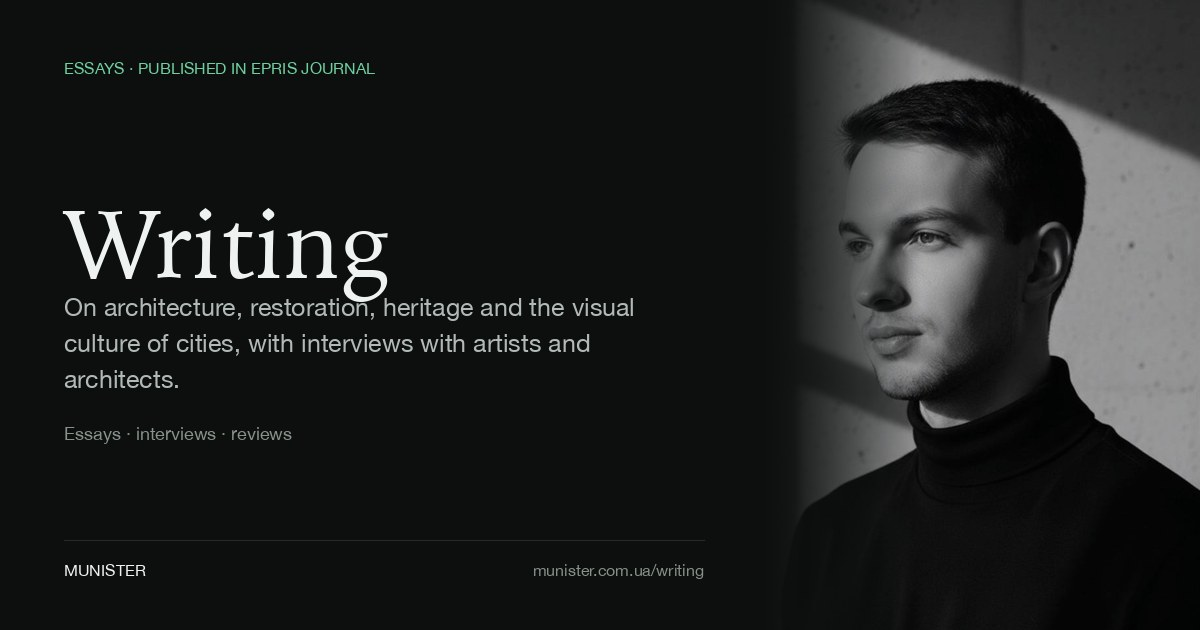
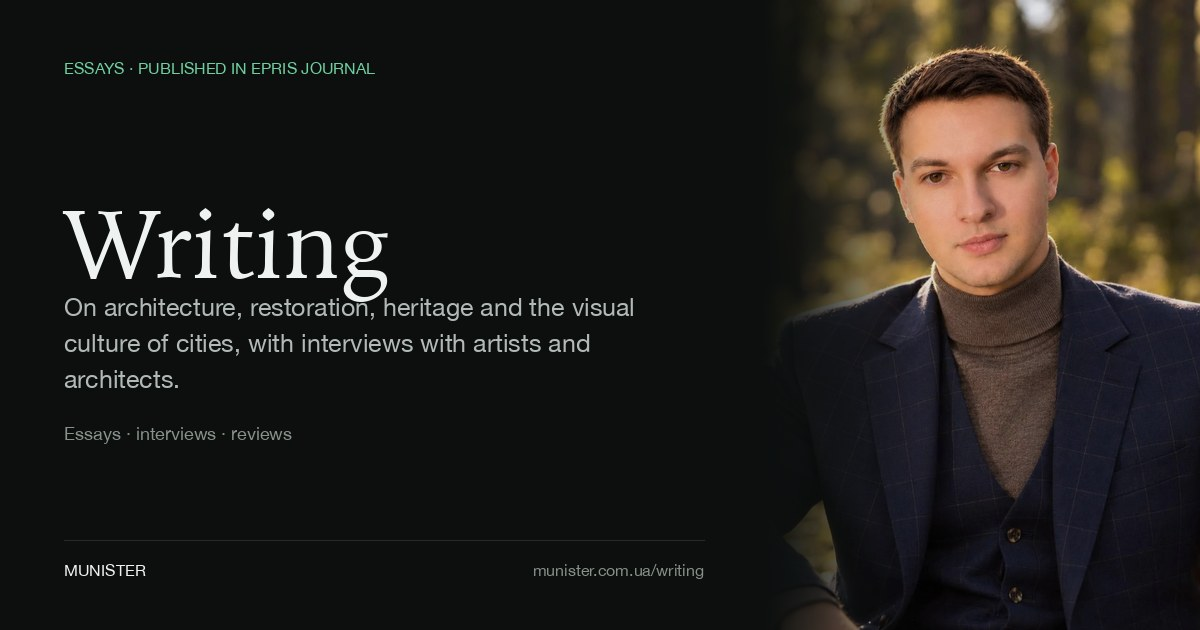
New 2026 portrait on the site and in the social cards: regenerated og images (en, uk, research, writing, course, cv), og-ua now in the dark theme, og:image/twitter:image added to course/databases and modeler, cache-bust v=4

Changed region(s): [[0.6475, 0.0, 1.0, 1.0]]

diff --git a/uk/index.html b/uk/index.html
@@ -29,7 +29,7 @@
 <meta property="og:site_name" content="Вʼячеслав Муністер">
 <meta property="og:title" content="Вʼячеслав Муністер · Прикладні системи, дослідження й цифрова практика">
 <meta property="og:description" content="Дослідження, продуктова архітектура й розробка для видавничої справи, освіти, роздрібних операцій та культурної спадщини.">
-<meta property="og:image" content="https://munister.com.ua/images/og-ua.jpg?v=3">
+<meta property="og:image" content="https://munister.com.ua/images/og-ua.jpg?v=4">
 <meta property="og:image:width" content="1200">
 <meta property="og:image:height" content="630">
 <meta property="og:image:type" content="image/jpeg">
@@ -39,7 +39,7 @@
 <meta name="twitter:card" content="summary_large_image">
 <meta name="twitter:title" content="Вʼячеслав Муністер · Прикладні системи, дослідження й цифрова практика">
 <meta name="twitter:description" content="Дослідження, продуктова архітектура й розробка для видавничої справи, освіти, роздрібних операцій та культурної спадщини.">
-<meta name="twitter:image" content="https://munister.com.ua/images/og-ua.jpg?v=3">
+<meta name="twitter:image" content="https://munister.com.ua/images/og-ua.jpg?v=4">
 <meta name="twitter:image:alt" content="Вʼячеслав Муністер, незалежна практика">
 
 

diff --git a/uk/cv.html b/uk/cv.html
@@ -27,7 +27,7 @@
 <meta property="og:site_name" content="Вʼячеслав Муністер">
 <meta property="og:title" content="Вʼячеслав Муністер · Резюме">
 <meta property="og:description" content="Автор, редактор і дослідник спадщини: великі журналістські тексти, музейне кураторство, редакційні системи та запуск продуктів.">
-<meta property="og:image" content="https://munister.com.ua/images/og-cv.jpg?v=3">
+<meta property="og:image" content="https://munister.com.ua/images/og-cv.jpg?v=4">
 <meta property="og:image:width" content="1200">
 <meta property="og:image:height" content="630">
 <meta property="og:image:alt" content="Вʼячеслав Муністер">
@@ -35,7 +35,7 @@
 <meta name="twitter:card" content="summary_large_image">
 <meta name="twitter:title" content="Вʼячеслав Муністер · Резюме">
 <meta name="twitter:description" content="Автор, редактор і дослідник спадщини: великі журналістські тексти, музейне кураторство, редакційні системи та запуск продуктів.">
-<meta name="twitter:image" content="https://munister.com.ua/images/og-cv.jpg?v=3">
+<meta name="twitter:image" content="https://munister.com.ua/images/og-cv.jpg?v=4">
 <meta name="twitter:image:alt" content="Вʼячеслав Муністер">
 
 <noscript></noscript>

diff --git a/course/databases/index.html b/course/databases/index.html
@@ -23,9 +23,16 @@
 <meta property="og:title" content="Бази та сховища даних · Програма курсу">
 <meta property="og:description" content="9 розділів, 19 лекцій, 14 лабораторних робіт: детальна українськомовна програма курсу з баз даних на основі Oracle Academy Database Foundations.">
 <meta property="og:locale" content="uk_UA">
+<meta property="og:image" content="https://munister.com.ua/images/og-course.jpg?v=4">
+<meta property="og:image:width" content="1200">
+<meta property="og:image:height" content="630">
+<meta property="og:image:type" content="image/jpeg">
+<meta property="og:image:alt" content="Бази та сховища даних: програма курсу">
 <meta name="twitter:card" content="summary_large_image">
 <meta name="twitter:title" content="Бази та сховища даних · Програма курсу">
 <meta name="twitter:description" content="9 розділів, 19 лекцій, 14 лабораторних робіт на базі Oracle Academy Database Foundations.">
+<meta name="twitter:image" content="https://munister.com.ua/images/og-course.jpg?v=4">
+<meta name="twitter:image:alt" content="Бази та сховища даних: програма курсу">
 
 <script type="application/ld+json">
 {

diff --git a/course/databases/reference/index.html b/course/databases/reference/index.html
@@ -23,9 +23,16 @@
 <meta property="og:title" content="Довідник курсу: бази даних">
 <meta property="og:description" content="Моделювання, ERD, нормалізація, SQL DDL/DML/TCL, SELECT, JOIN, агрегування, а також розширений довідник з Oracle SQL — функції, підзапити, послідовності, PL/SQL.">
 <meta property="og:locale" content="uk_UA">
+<meta property="og:image" content="https://munister.com.ua/images/og-course.jpg?v=4">
+<meta property="og:image:width" content="1200">
+<meta property="og:image:height" content="630">
+<meta property="og:image:type" content="image/jpeg">
+<meta property="og:image:alt" content="Довідник курсу: бази даних">
 <meta name="twitter:card" content="summary_large_image">
 <meta name="twitter:title" content="Довідник курсу: бази даних">
 <meta name="twitter:description" content="Весь курс «Бази та сховища даних» на одному аркуші: моделювання, ERD, нормалізація, SQL.">
+<meta name="twitter:image" content="https://munister.com.ua/images/og-course.jpg?v=4">
+<meta name="twitter:image:alt" content="Довідник курсу: бази даних">
 
 <script type="application/ld+json">
 {

diff --git a/fr/index.html b/fr/index.html
@@ -29,7 +29,7 @@
 <meta property="og:site_name" content="Viacheslav Munister">
 <meta property="og:title" content="Viacheslav Munister · Recherche en systèmes appliqués et pratique numérique">
 <meta property="og:description" content="Recherche, architecture produit et développement logiciel pour l’édition, l’éducation, le commerce et le patrimoine culturel.">
-<meta property="og:image" content="https://munister.com.ua/images/og-en.jpg?v=3">
+<meta property="og:image" content="https://munister.com.ua/images/og-en.jpg?v=4">
 <meta property="og:image:width" content="1200">
 <meta property="og:image:height" content="630">
 <meta property="og:image:type" content="image/jpeg">
@@ -38,7 +38,7 @@
 <meta name="twitter:card" content="summary_large_image">
 <meta name="twitter:title" content="Viacheslav Munister · Recherche en systèmes appliqués et pratique numérique">
 <meta name="twitter:description" content="Recherche, architecture produit et développement logiciel pour l’édition, l’éducation, le commerce et le patrimoine culturel.">
-<meta name="twitter:image" content="https://munister.com.ua/images/og-en.jpg?v=3">
+<meta name="twitter:image" content="https://munister.com.ua/images/og-en.jpg?v=4">
 <meta name="twitter:image:alt" content="Viacheslav Munister, pratique indépendante">
 
 

diff --git a/it/index.html b/it/index.html
@@ -29,7 +29,7 @@
 <meta property="og:site_name" content="Viacheslav Munister">
 <meta property="og:title" content="Viacheslav Munister · Ricerca sui sistemi applicati e pratica digitale">
 <meta property="og:description" content="Ricerca, architettura di prodotto e sviluppo software per editoria, formazione, retail e patrimonio culturale.">
-<meta property="og:image" content="https://munister.com.ua/images/og-en.jpg?v=3">
+<meta property="og:image" content="https://munister.com.ua/images/og-en.jpg?v=4">
 <meta property="og:image:width" content="1200">
 <meta property="og:image:height" content="630">
 <meta property="og:image:type" content="image/jpeg">
@@ -38,7 +38,7 @@
 <meta name="twitter:card" content="summary_large_image">
 <meta name="twitter:title" content="Viacheslav Munister · Ricerca sui sistemi applicati e pratica digitale">
 <meta name="twitter:description" content="Ricerca, architettura di prodotto e sviluppo software per editoria, formazione, retail e patrimonio culturale.">
-<meta name="twitter:image" content="https://munister.com.ua/images/og-en.jpg?v=3">
+<meta name="twitter:image" content="https://munister.com.ua/images/og-en.jpg?v=4">
 <meta name="twitter:image:alt" content="Viacheslav Munister, pratica indipendente">
 
 

diff --git a/uk/research/index.html b/uk/research/index.html
@@ -26,13 +26,13 @@
 <meta property="og:site_name" content="Вʼячеслав Муністер">
 <meta property="og:title" content="Дослідження · Вʼячеслав Муністер">
 <meta property="og:description" content="29 рецензованих статей 2021–2026 років: промислова автоматизація, периферійні й туманні обчислення, машинне навчання у вимірювальних системах.">
-<meta property="og:image" content="https://munister.com.ua/images/og-research.jpg?v=3">
+<meta property="og:image" content="https://munister.com.ua/images/og-research.jpg?v=4">
 <meta property="og:image:width" content="1200">
 <meta property="og:image:height" content="630">
 <meta property="og:image:alt" content="Дослідження Вʼячеслава Муністера">
 <meta property="og:locale" content="uk_UA">
 <meta name="twitter:card" content="summary_large_image">
-<meta name="twitter:image" content="https://munister.com.ua/images/og-research.jpg?v=3">
+<meta name="twitter:image" content="https://munister.com.ua/images/og-research.jpg?v=4">
 
 <link rel="stylesheet" href="/munister.css?v=55">
 <link rel="stylesheet" href="/theme.css?v=4">

diff --git a/de/index.html b/de/index.html
@@ -29,7 +29,7 @@
 <meta property="og:site_name" content="Viacheslav Munister">
 <meta property="og:title" content="Viacheslav Munister · Angewandte Systemforschung und digitale Praxis">
 <meta property="og:description" content="Forschung, Produktarchitektur und Softwareentwicklung für Verlagswesen, Bildung, Einzelhandel und Kulturerbe.">
-<meta property="og:image" content="https://munister.com.ua/images/og-en.jpg?v=3">
+<meta property="og:image" content="https://munister.com.ua/images/og-en.jpg?v=4">
 <meta property="og:image:width" content="1200">
 <meta property="og:image:height" content="630">
 <meta property="og:image:type" content="image/jpeg">
@@ -38,7 +38,7 @@
 <meta name="twitter:card" content="summary_large_image">
 <meta name="twitter:title" content="Viacheslav Munister · Angewandte Systemforschung und digitale Praxis">
 <meta name="twitter:description" content="Forschung, Produktarchitektur und Softwareentwicklung für Verlagswesen, Bildung, Einzelhandel und Kulturerbe.">
-<meta name="twitter:image" content="https://munister.com.ua/images/og-en.jpg?v=3">
+<meta name="twitter:image" content="https://munister.com.ua/images/og-en.jpg?v=4">
 <meta name="twitter:image:alt" content="Viacheslav Munister, unabhängige Praxis">
 
 

diff --git a/index.html b/index.html
@@ -29,7 +29,7 @@
 <meta property="og:site_name" content="Viacheslav Munister">
 <meta property="og:title" content="Viacheslav Munister · Applied systems research and digital practice">
 <meta property="og:description" content="Research, product architecture and software delivery for publishing, education, retail and cultural heritage.">
-<meta property="og:image" content="https://munister.com.ua/images/og-en.jpg?v=3">
+<meta property="og:image" content="https://munister.com.ua/images/og-en.jpg?v=4">
 <meta property="og:image:width" content="1200">
 <meta property="og:image:height" content="630">
 <meta property="og:image:type" content="image/jpeg">
@@ -38,7 +38,7 @@
 <meta name="twitter:card" content="summary_large_image">
 <meta name="twitter:title" content="Viacheslav Munister · Applied systems research and digital practice">
 <meta name="twitter:description" content="Research, product architecture and software delivery for publishing, education, retail and cultural heritage.">
-<meta name="twitter:image" content="https://munister.com.ua/images/og-en.jpg?v=3">
+<meta name="twitter:image" content="https://munister.com.ua/images/og-en.jpg?v=4">
 <meta name="twitter:image:alt" content="Viacheslav Munister, independent practice">
 
 

diff --git a/fr/cv.html b/fr/cv.html
@@ -27,7 +27,7 @@
 <meta property="og:site_name" content="Viacheslav Munister">
 <meta property="og:title" content="Viacheslav Munister · CV">
 <meta property="og:description" content="Auteur, rédacteur et chercheur en patrimoine entre journalisme de fond, curation muséale, systèmes éditoriaux et développement de produit.">
-<meta property="og:image" content="https://munister.com.ua/images/og-cv.jpg?v=3">
+<meta property="og:image" content="https://munister.com.ua/images/og-cv.jpg?v=4">
 <meta property="og:image:width" content="1200">
 <meta property="og:image:height" content="630">
 <meta property="og:image:alt" content="Viacheslav Munister">
@@ -35,7 +35,7 @@
 <meta name="twitter:card" content="summary_large_image">
 <meta name="twitter:title" content="Viacheslav Munister · CV">
 <meta name="twitter:description" content="Auteur, rédacteur et chercheur en patrimoine entre journalisme de fond, curation muséale, systèmes éditoriaux et développement de produit.">
-<meta name="twitter:image" content="https://munister.com.ua/images/og-cv.jpg?v=3">
+<meta name="twitter:image" content="https://munister.com.ua/images/og-cv.jpg?v=4">
 <meta name="twitter:image:alt" content="Viacheslav Munister">
 
 <noscript></noscript>

diff --git a/de/cv.html b/de/cv.html
@@ -27,7 +27,7 @@
 <meta property="og:site_name" content="Viacheslav Munister">
 <meta property="og:title" content="Viacheslav Munister · Lebenslauf">
 <meta property="og:description" content="Autor, Redakteur und Kulturerbe-Forscher zwischen Langform-Journalismus, Museumskuration, Redaktionssystemen und Produktentwicklung.">
-<meta property="og:image" content="https://munister.com.ua/images/og-cv.jpg?v=3">
+<meta property="og:image" content="https://munister.com.ua/images/og-cv.jpg?v=4">
 <meta property="og:image:width" content="1200">
 <meta property="og:image:height" content="630">
 <meta property="og:image:alt" content="Viacheslav Munister">
@@ -35,7 +35,7 @@
 <meta name="twitter:card" content="summary_large_image">
 <meta name="twitter:title" content="Viacheslav Munister · Lebenslauf">
 <meta name="twitter:description" content="Autor, Redakteur und Kulturerbe-Forscher zwischen Langform-Journalismus, Museumskuration, Redaktionssystemen und Produktentwicklung.">
-<meta name="twitter:image" content="https://munister.com.ua/images/og-cv.jpg?v=3">
+<meta name="twitter:image" content="https://munister.com.ua/images/og-cv.jpg?v=4">
 <meta name="twitter:image:alt" content="Viacheslav Munister">
 
 <noscript></noscript>

diff --git a/it/cv.html b/it/cv.html
@@ -27,7 +27,7 @@
 <meta property="og:site_name" content="Viacheslav Munister">
 <meta property="og:title" content="Viacheslav Munister · CV">
 <meta property="og:description" content="Autore, editor e ricercatore del patrimonio tra giornalismo di approfondimento, curatela museale, sistemi editoriali e sviluppo di prodotto.">
-<meta property="og:image" content="https://munister.com.ua/images/og-cv.jpg?v=3">
+<meta property="og:image" content="https://munister.com.ua/images/og-cv.jpg?v=4">
 <meta property="og:image:width" content="1200">
 <meta property="og:image:height" content="630">
 <meta property="og:image:alt" content="Viacheslav Munister">
@@ -35,7 +35,7 @@
 <meta name="twitter:card" content="summary_large_image">
 <meta name="twitter:title" content="Viacheslav Munister · CV">
 <meta name="twitter:description" content="Autore, editor e ricercatore del patrimonio tra giornalismo di approfondimento, curatela museale, sistemi editoriali e sviluppo di prodotto.">
-<meta name="twitter:image" content="https://munister.com.ua/images/og-cv.jpg?v=3">
+<meta name="twitter:image" content="https://munister.com.ua/images/og-cv.jpg?v=4">
 <meta name="twitter:image:alt" content="Viacheslav Munister">
 
 <noscript></noscript>
